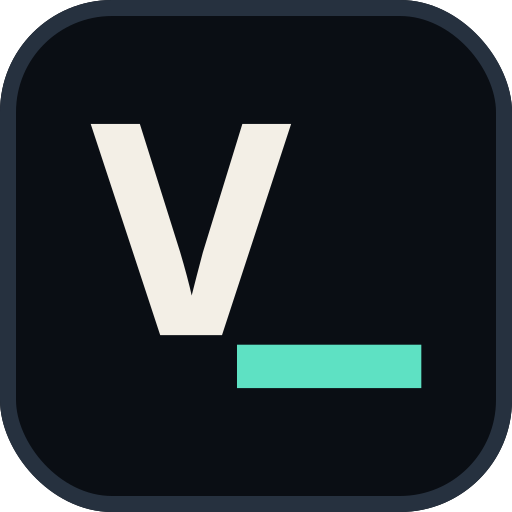
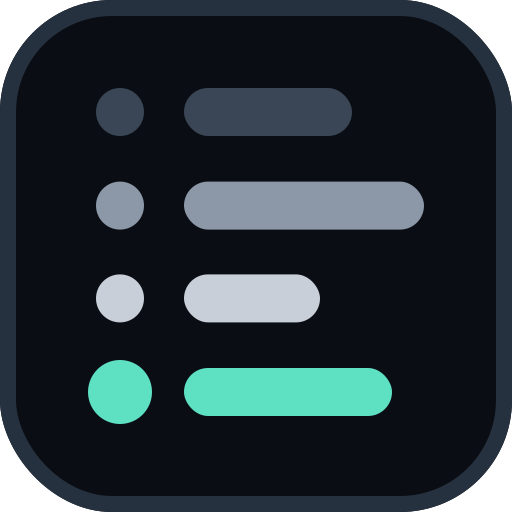
feat: 앱 아이콘·파비콘을 커밋 로그 심볼로 교체
왜: 레터마크 v_가 못생겼다는 피드백 (Jessi). 레터 3안·심볼 8안· 코드-커밋 3안을 거쳐 git log 정렬안(커밋 점 + 메시지 줄 4개, 최신이 민트)으로 확정 — "…"를 그대로 그린 마크다. 탭(라운드+테두리)·애플(풀블리드)·PWA 192/512·maskable(원형 안전 영역 0.84 축소) 전 세트 재생성, 16px 가독·원형 크롭 확인. 디자인 문서의 파비콘 기술도 갱신.

Claude-Session: https://claude.ai/code/session_01WuW6xZfcXoUaVcGfDkFzy2

Changed region(s): [[0.1562, 0.1562, 0.8438, 0.8125], [0.1562, 0.6875, 0.3125, 0.8438]]

diff --git a/.claude/skills/vibelog-design/README.md b/.claude/skills/vibelog-design/README.md
@@ -84,7 +84,7 @@ Vibelog(바이브 로그) — 바이브 코딩 프로젝트들의 제작기·현
 폰트: Google Fonts `Noto Sans KR 400 500 700 900` + `JetBrains Mono 500 700` (`tokens/fonts.css`). 렌더 환경(Remotion/Playwright)에는 Noto Sans CJK KR 로컬 설치.
 
 ## Assets
-- 로고 없음. 워드마크는 텍스트(`vibelog` **JetBrains Mono 700** — 코드 느낌, Jessi 지시. 쇼츠 타이포의 Noto Sans KR 900은 별개). 파비콘·OG도 같은 터미널 톤(`v_` 글리프 / 모노 워드마크).
+- 로고 없음. 워드마크는 텍스트(`vibelog` **JetBrains Mono 700** — 코드 느낌, Jessi 지시. 쇼츠 타이포의 Noto Sans KR 900은 별개). 파비콘·앱 아이콘은 **커밋 로그 심볼**(커밋 점+메시지 줄 4개, 최신이 민트 — app/icon.svg). 레터마크 v_는 폐기(Jessi). OG 카드는 모노 워드마크.
 - 아이콘 세트 없음. 모노 유니코드 글리프만: ● ✓ ✗ → ↗ × ⋯ ▾ ▍ $ ▶ ·
 - **프로젝트 식별색** — "민트 하나" 규칙의 유일한 예외 (Jessi 지시). `lib/project-color.ts`가 레포 이름 해시로 파스텔 5색을 배정, vibelog 자신은 민트 고정. 피드 이니셜 마커·프로젝트명·필터 칩 점에 쓴다. 난색(오렌지·레드)은 의미색과 겹쳐 팔레트에서 제외.
 - 이모지는 텔레그램 인라인 키보드 ✅ ✏ ❌ 에서만.

diff --git a/.claude/skills/vibelog-design/DESIGN_SYSTEM.md b/.claude/skills/vibelog-design/DESIGN_SYSTEM.md
@@ -15,7 +15,7 @@
 - `uploads/vibelog-docs/docs/shorts-prototype.html` — 승인된 Ship it 샘플 (컴포넌트 치수의 원본)
 - `samples/A · B · C` — 이 세션에서 제안한 블로그 방향 3종. **C(현황판)** 채택. A(로그형)·B(에디토리얼)는 참고용으로 남김.
 
-로고 없음 — 제공된 소스에 마크가 없어 만들지 않았다. 워드마크(소문자 `vibelog`, **JetBrains Mono 700** — 코드 느낌, Jessi 지시)가 마크 역할. 파비콘은 터미널 프롬프트 `v_` 글리프(app/icon.svg).
+로고 없음 — 제공된 소스에 마크가 없어 만들지 않았다. 워드마크(소문자 `vibelog`, **JetBrains Mono 700** — 코드 느낌, Jessi 지시)가 마크 역할. 파비콘·앱 아이콘은 커밋 로그 심볼(app/icon.svg — 커밋 점+메시지 줄, 최신 민트). 레터마크 v_는 폐기.
 
 ## 손맛 규칙 (AI 생성 티 빼기)
 
